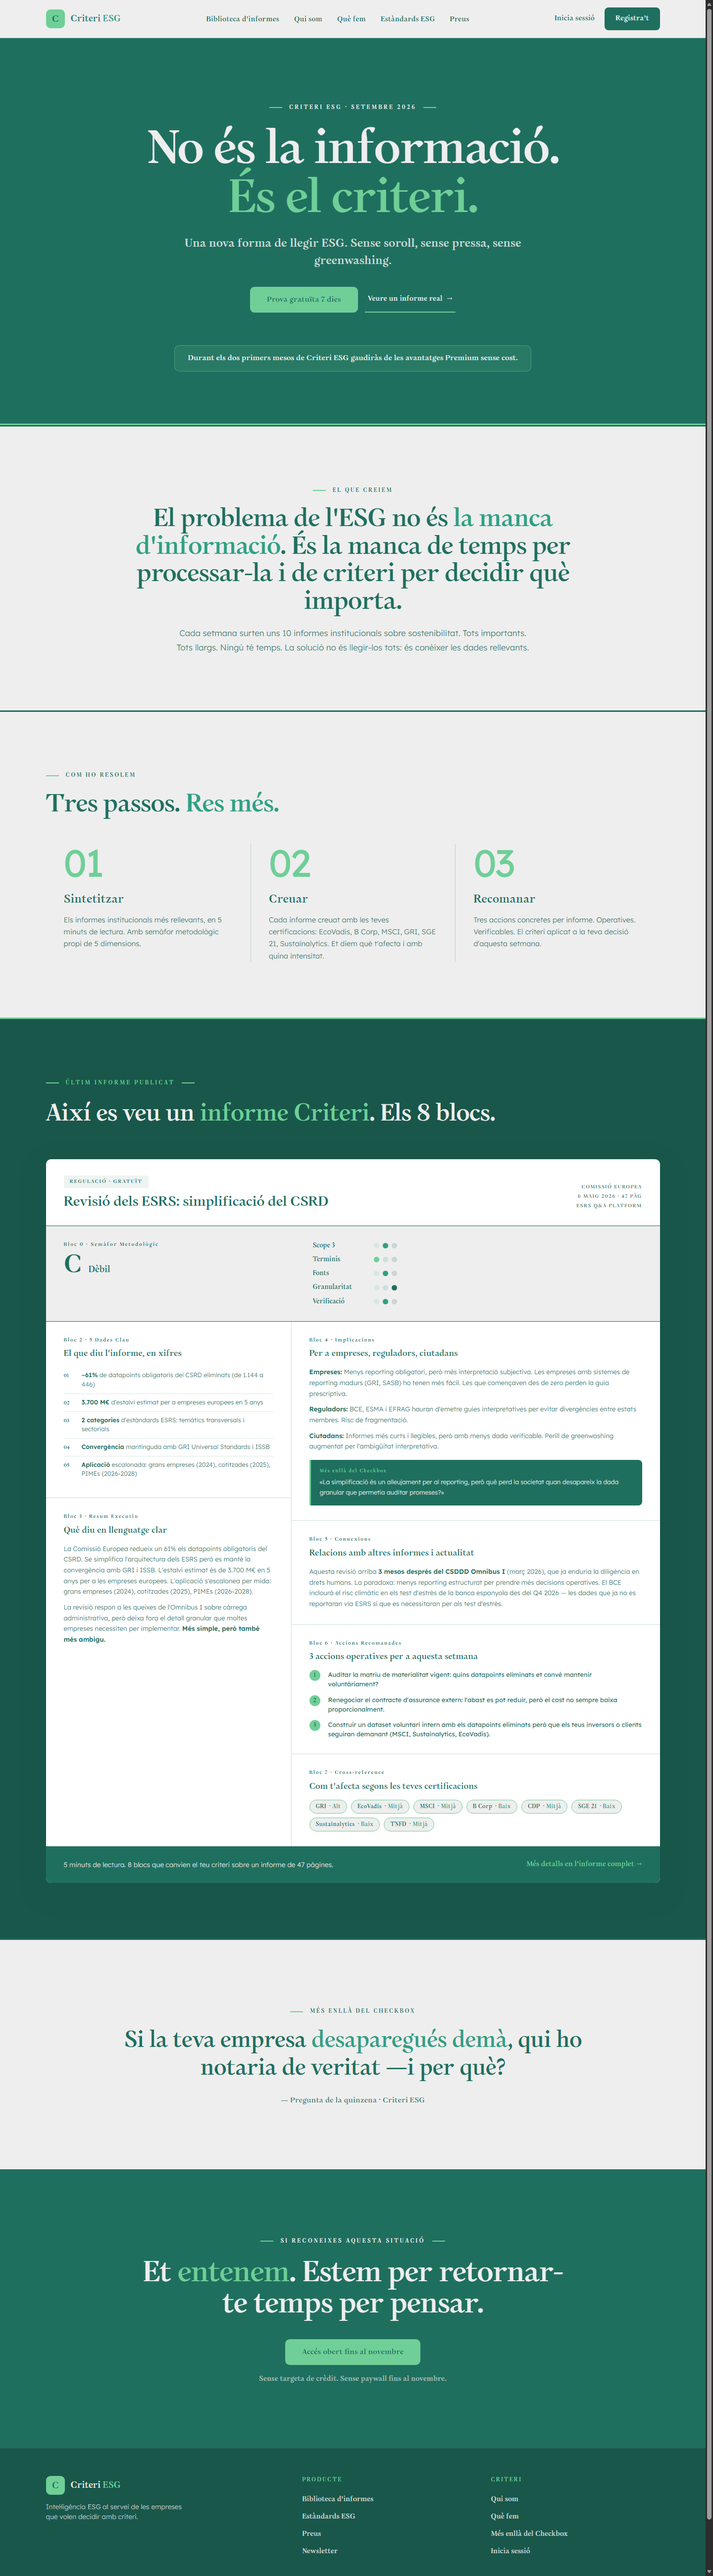
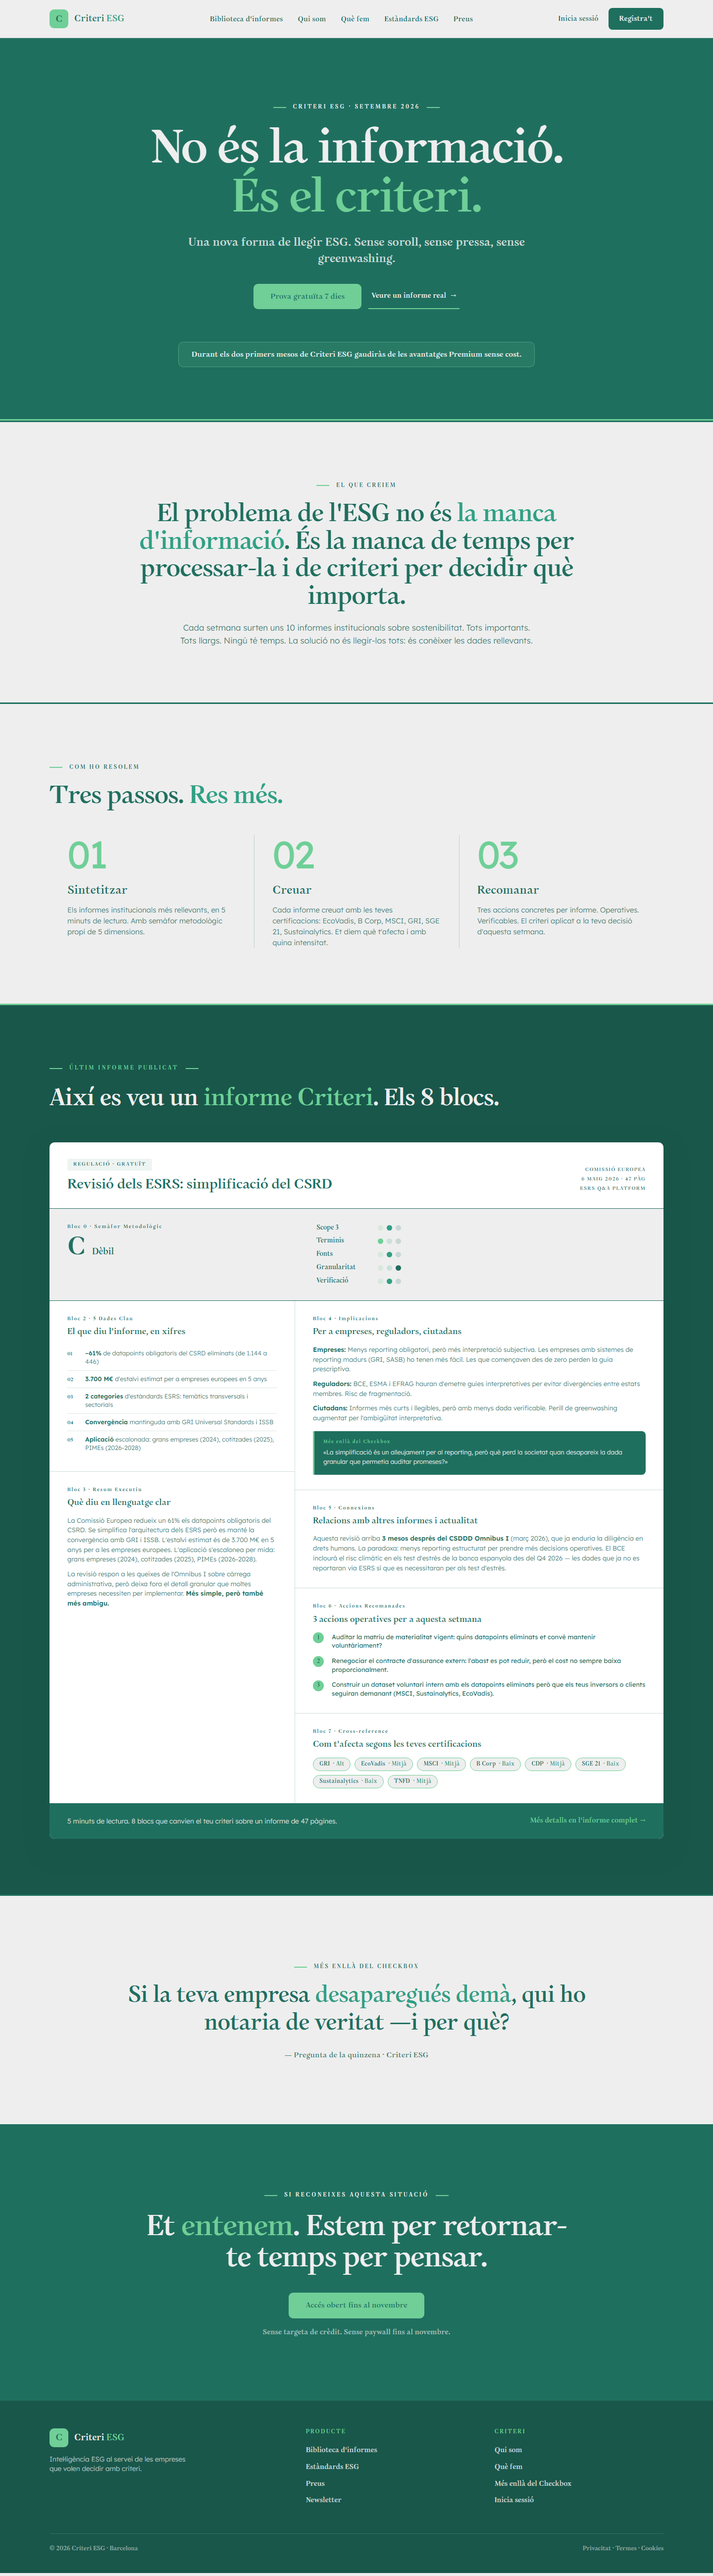
style: rebaixar l'interliniat del text sans (Lexend) a les 3 versions del mockup

diff --git a/assets/redisseny-web/mockup-homepage-paleta-verda-mobil.html b/assets/redisseny-web/mockup-homepage-paleta-verda-mobil.html
@@ -29,7 +29,7 @@
     font-family: var(--font-body);
     background: #D9DDDA;
     color: var(--ink);
-    line-height: 1.5;
+    line-height: 1.4;
     -webkit-font-smoothing: antialiased;
   }
   .phone {
@@ -154,7 +154,7 @@
     letter-spacing: -0.025em; line-height: 1.12;
   }
   h2.sec-title .hl { color: var(--accent); }
-  .sec-body { max-width: 720px; font-weight: 300; font-size: 1.05rem; color: var(--ink-soft); line-height: 1.7; margin-top: 22px; }
+  .sec-body { max-width: 720px; font-weight: 300; font-size: 1.05rem; color: var(--ink-soft); line-height: 1.55; margin-top: 22px; }
 
   /* Manifest centrat */
   .manifest { text-align: center; }
@@ -174,7 +174,7 @@
     color: var(--highlight); line-height: 1; letter-spacing: -0.04em;
   }
   .thesis h3 { font-size: 1.45rem; font-weight: 400; margin: 18px 0 12px; color: var(--ink); }
-  .thesis p { font-size: 0.92rem; font-weight: 300; color: var(--ink-soft); line-height: 1.65; }
+  .thesis p { font-size: 0.92rem; font-weight: 300; color: var(--ink-soft); line-height: 1.5; }
 
   /* ============ INFORME DESTACAT ============ */
   .informe {
@@ -232,7 +232,7 @@
   .bloc:last-child { border-bottom: none; }
   .bloc-num { font-size: 0.6rem; font-weight: 400; letter-spacing: 0.2em; color: var(--ink); }
   .bloc h4 { font-size: 1.05rem; font-weight: 400; margin: 8px 0 14px; color: var(--ink); }
-  .bloc p { font-size: 0.82rem; font-weight: 300; color: var(--ink-soft); line-height: 1.65; }
+  .bloc p { font-size: 0.82rem; font-weight: 300; color: var(--ink-soft); line-height: 1.5; }
   .bloc p + p { margin-top: 10px; }
   .bloc p strong { color: var(--ink); font-weight: 600; }
 
@@ -258,7 +258,7 @@
     font-size: 0.68rem;
     display: grid; place-items: center;
   }
-  .accio .t { font-size: 0.8rem; font-weight: 400; color: var(--ink); line-height: 1.5; }
+  .accio .t { font-size: 0.8rem; font-weight: 400; color: var(--ink); line-height: 1.4; }
 
   .chips { display: flex; flex-wrap: wrap; gap: 8px; }
   .chip {
@@ -323,7 +323,7 @@
     section.block { padding: 68px 0; }
     .eyebrow-dark { font-size: 0.62rem; letter-spacing: 0.22em; }
     h2.sec-title { font-size: clamp(1.65rem, 7.5vw, 2.1rem); line-height: 1.16; }
-    .sec-body { font-size: 0.98rem; line-height: 1.65; margin-top: 18px; }
+    .sec-body { font-size: 0.98rem; line-height: 1.5; margin-top: 18px; }
 
     .theses-grid { grid-template-columns: 1fr; margin-top: 40px; }
     .thesis { padding: 0 0 30px; }

diff --git a/assets/redisseny-web/mockup-homepage-paleta-verda-desktop.html b/assets/redisseny-web/mockup-homepage-paleta-verda-desktop.html
@@ -29,7 +29,7 @@
     font-family: var(--font-body);
     background: var(--bg);
     color: var(--ink);
-    line-height: 1.5;
+    line-height: 1.4;
     -webkit-font-smoothing: antialiased;
   }
 
@@ -147,7 +147,7 @@
     letter-spacing: -0.025em; line-height: 1.12;
   }
   h2.sec-title .hl { color: var(--accent); }
-  .sec-body { max-width: 720px; font-weight: 300; font-size: 1.05rem; color: var(--ink-soft); line-height: 1.7; margin-top: 22px; }
+  .sec-body { max-width: 720px; font-weight: 300; font-size: 1.05rem; color: var(--ink-soft); line-height: 1.55; margin-top: 22px; }
 
   /* Manifest centrat */
   .manifest { text-align: center; }
@@ -167,7 +167,7 @@
     color: var(--highlight); line-height: 1; letter-spacing: -0.04em;
   }
   .thesis h3 { font-size: 1.45rem; font-weight: 400; margin: 18px 0 12px; color: var(--ink); }
-  .thesis p { font-size: 0.92rem; font-weight: 300; color: var(--ink-soft); line-height: 1.65; }
+  .thesis p { font-size: 0.92rem; font-weight: 300; color: var(--ink-soft); line-height: 1.5; }
 
   /* ============ INFORME DESTACAT ============ */
   .informe {
@@ -225,7 +225,7 @@
   .bloc:last-child { border-bottom: none; }
   .bloc-num { font-size: 0.6rem; font-weight: 400; letter-spacing: 0.2em; color: var(--ink); }
   .bloc h4 { font-size: 1.05rem; font-weight: 400; margin: 8px 0 14px; color: var(--ink); }
-  .bloc p { font-size: 0.82rem; font-weight: 300; color: var(--ink-soft); line-height: 1.65; }
+  .bloc p { font-size: 0.82rem; font-weight: 300; color: var(--ink-soft); line-height: 1.5; }
   .bloc p + p { margin-top: 10px; }
   .bloc p strong { color: var(--ink); font-weight: 600; }
 
@@ -251,7 +251,7 @@
     font-size: 0.68rem;
     display: grid; place-items: center;
   }
-  .accio .t { font-size: 0.8rem; font-weight: 400; color: var(--ink); line-height: 1.5; }
+  .accio .t { font-size: 0.8rem; font-weight: 400; color: var(--ink); line-height: 1.4; }
 
   .chips { display: flex; flex-wrap: wrap; gap: 8px; }
   .chip {

diff --git a/assets/redisseny-web/mockup-homepage-paleta-verda.html b/assets/redisseny-web/mockup-homepage-paleta-verda.html
@@ -29,7 +29,7 @@
     font-family: var(--font-body);
     background: var(--bg);
     color: var(--ink);
-    line-height: 1.5;
+    line-height: 1.4;
     -webkit-font-smoothing: antialiased;
   }
 
@@ -147,7 +147,7 @@
     letter-spacing: -0.025em; line-height: 1.12;
   }
   h2.sec-title .hl { color: var(--accent); }
-  .sec-body { max-width: 720px; font-weight: 300; font-size: 1.05rem; color: var(--ink-soft); line-height: 1.7; margin-top: 22px; }
+  .sec-body { max-width: 720px; font-weight: 300; font-size: 1.05rem; color: var(--ink-soft); line-height: 1.55; margin-top: 22px; }
 
   /* Manifest centrat */
   .manifest { text-align: center; }
@@ -167,7 +167,7 @@
     color: var(--highlight); line-height: 1; letter-spacing: -0.04em;
   }
   .thesis h3 { font-size: 1.45rem; font-weight: 400; margin: 18px 0 12px; color: var(--ink); }
-  .thesis p { font-size: 0.92rem; font-weight: 300; color: var(--ink-soft); line-height: 1.65; }
+  .thesis p { font-size: 0.92rem; font-weight: 300; color: var(--ink-soft); line-height: 1.5; }
 
   /* ============ INFORME DESTACAT ============ */
   .informe {
@@ -225,7 +225,7 @@
   .bloc:last-child { border-bottom: none; }
   .bloc-num { font-size: 0.6rem; font-weight: 400; letter-spacing: 0.2em; color: var(--ink); }
   .bloc h4 { font-size: 1.05rem; font-weight: 400; margin: 8px 0 14px; color: var(--ink); }
-  .bloc p { font-size: 0.82rem; font-weight: 300; color: var(--ink-soft); line-height: 1.65; }
+  .bloc p { font-size: 0.82rem; font-weight: 300; color: var(--ink-soft); line-height: 1.5; }
   .bloc p + p { margin-top: 10px; }
   .bloc p strong { color: var(--ink); font-weight: 600; }
 
@@ -251,7 +251,7 @@
     font-size: 0.68rem;
     display: grid; place-items: center;
   }
-  .accio .t { font-size: 0.8rem; font-weight: 400; color: var(--ink); line-height: 1.5; }
+  .accio .t { font-size: 0.8rem; font-weight: 400; color: var(--ink); line-height: 1.4; }
 
   .chips { display: flex; flex-wrap: wrap; gap: 8px; }
   .chip {
